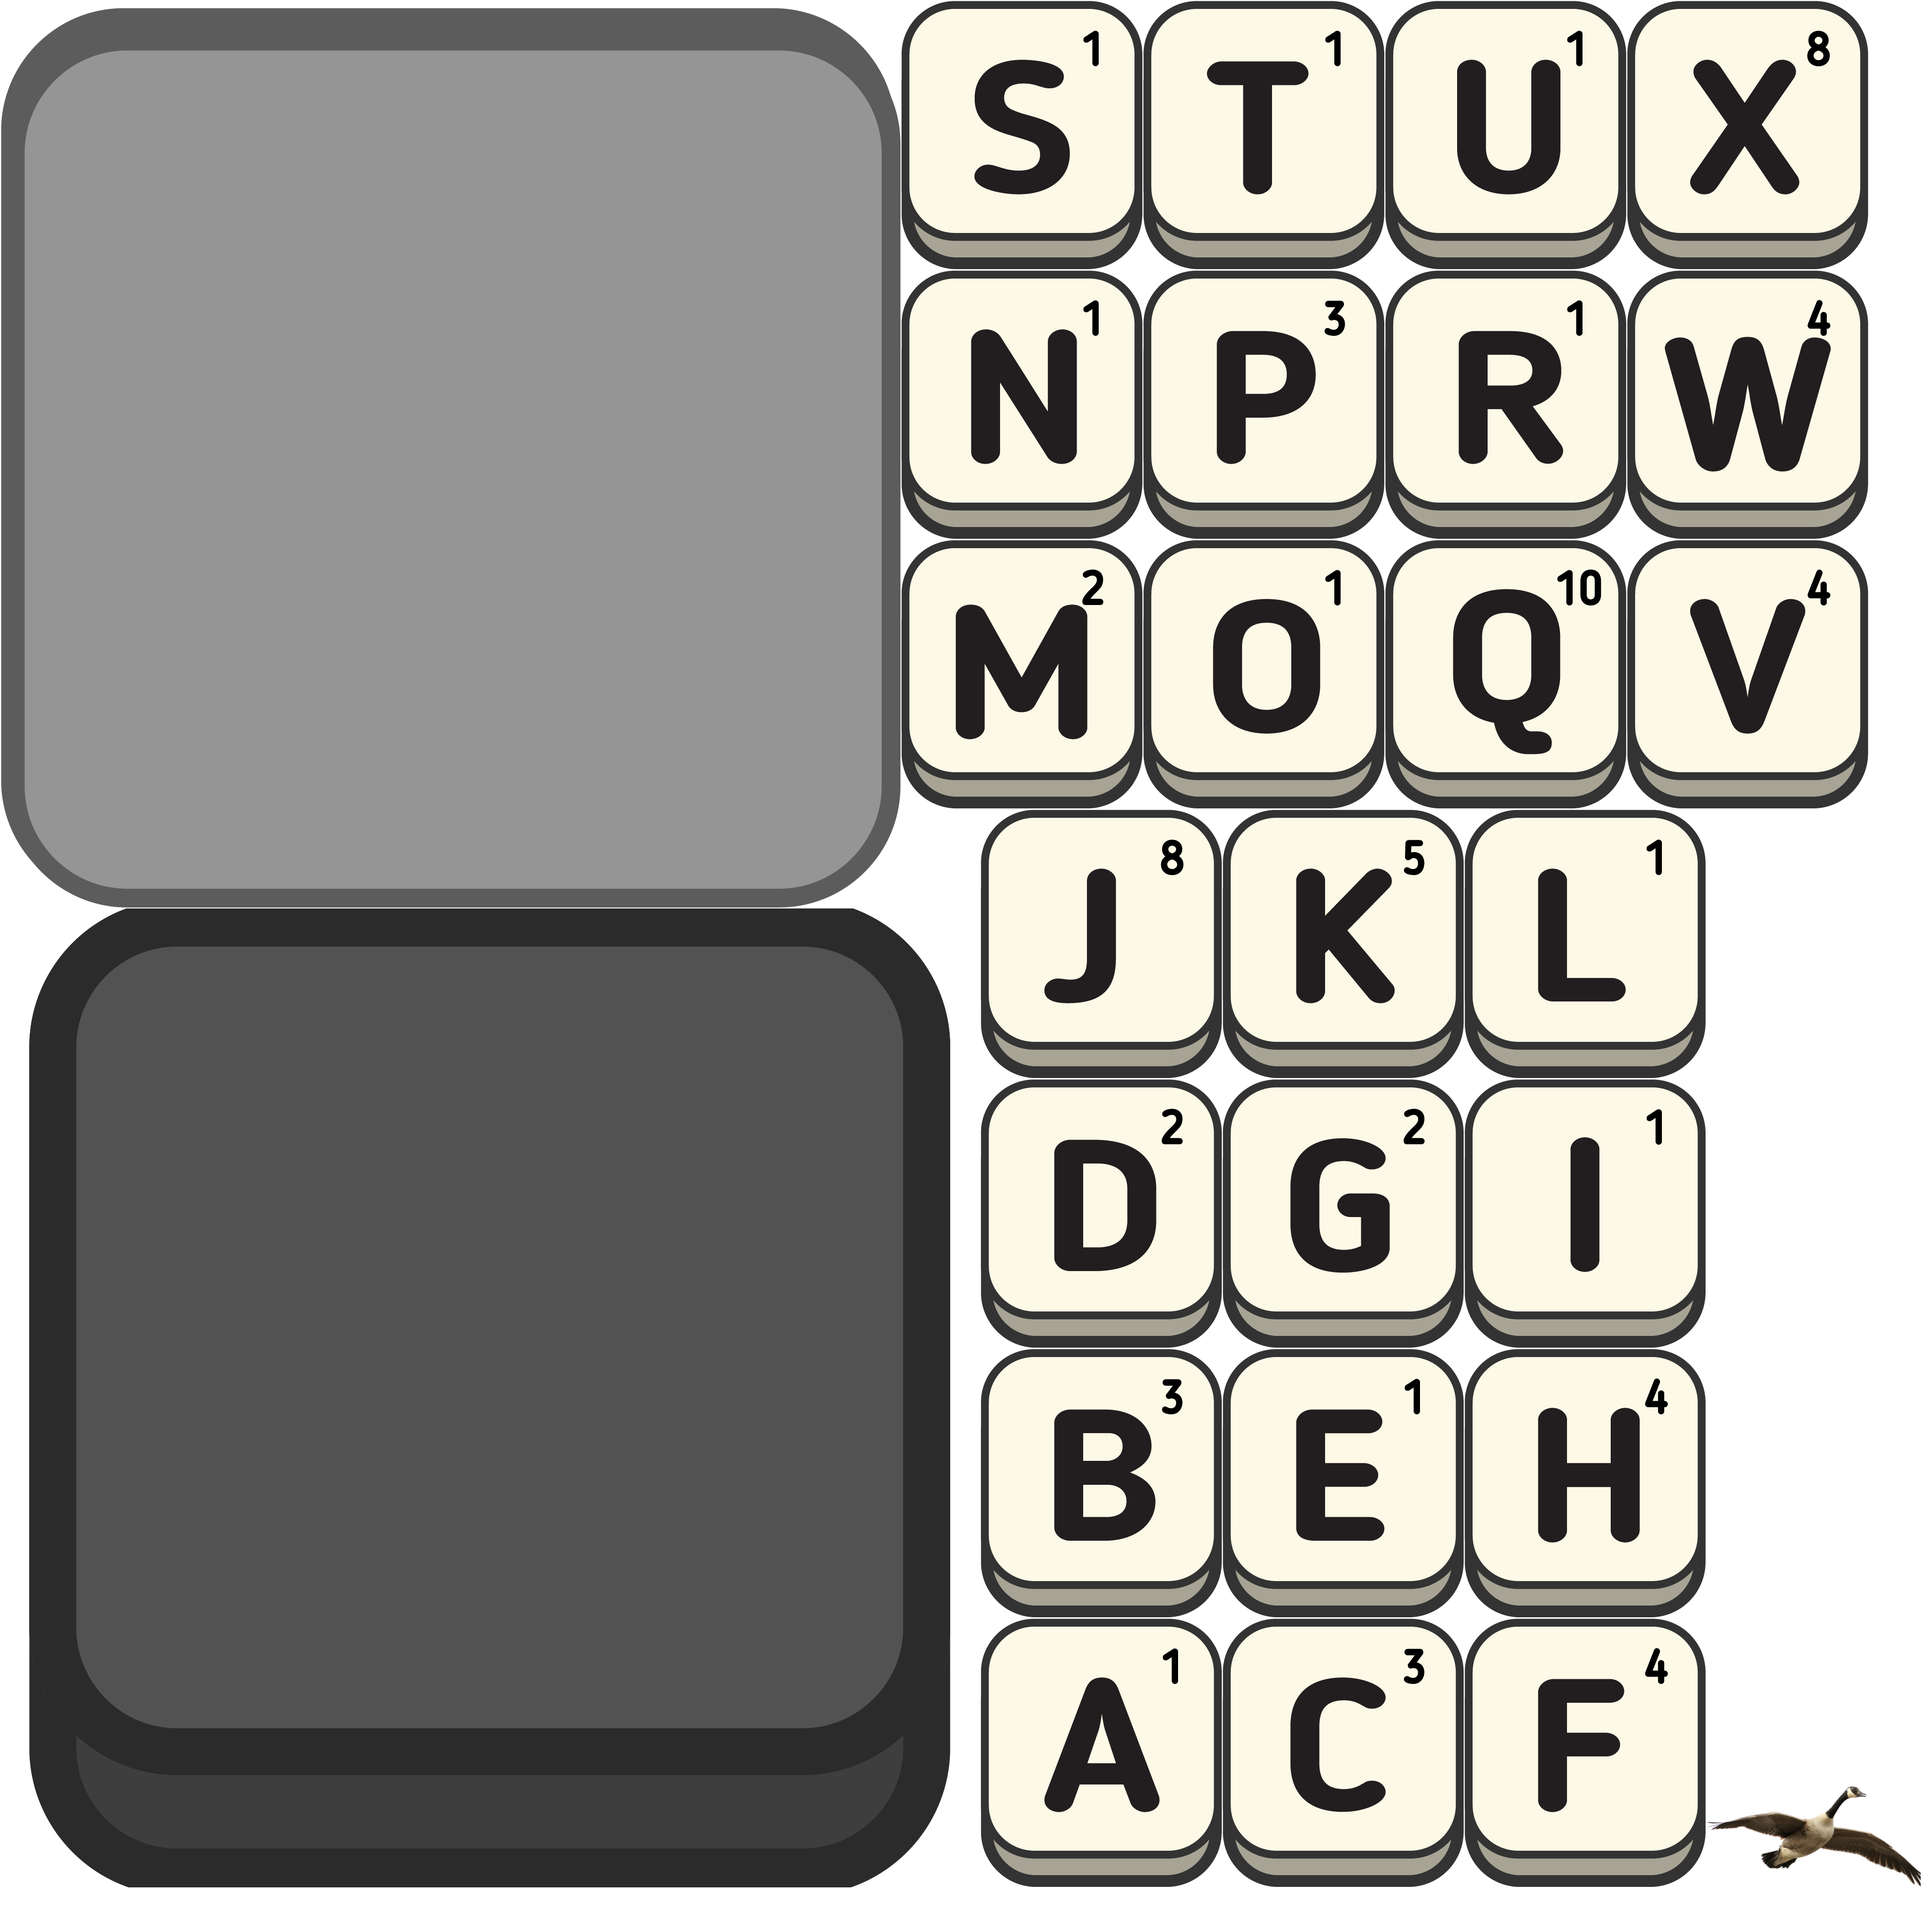
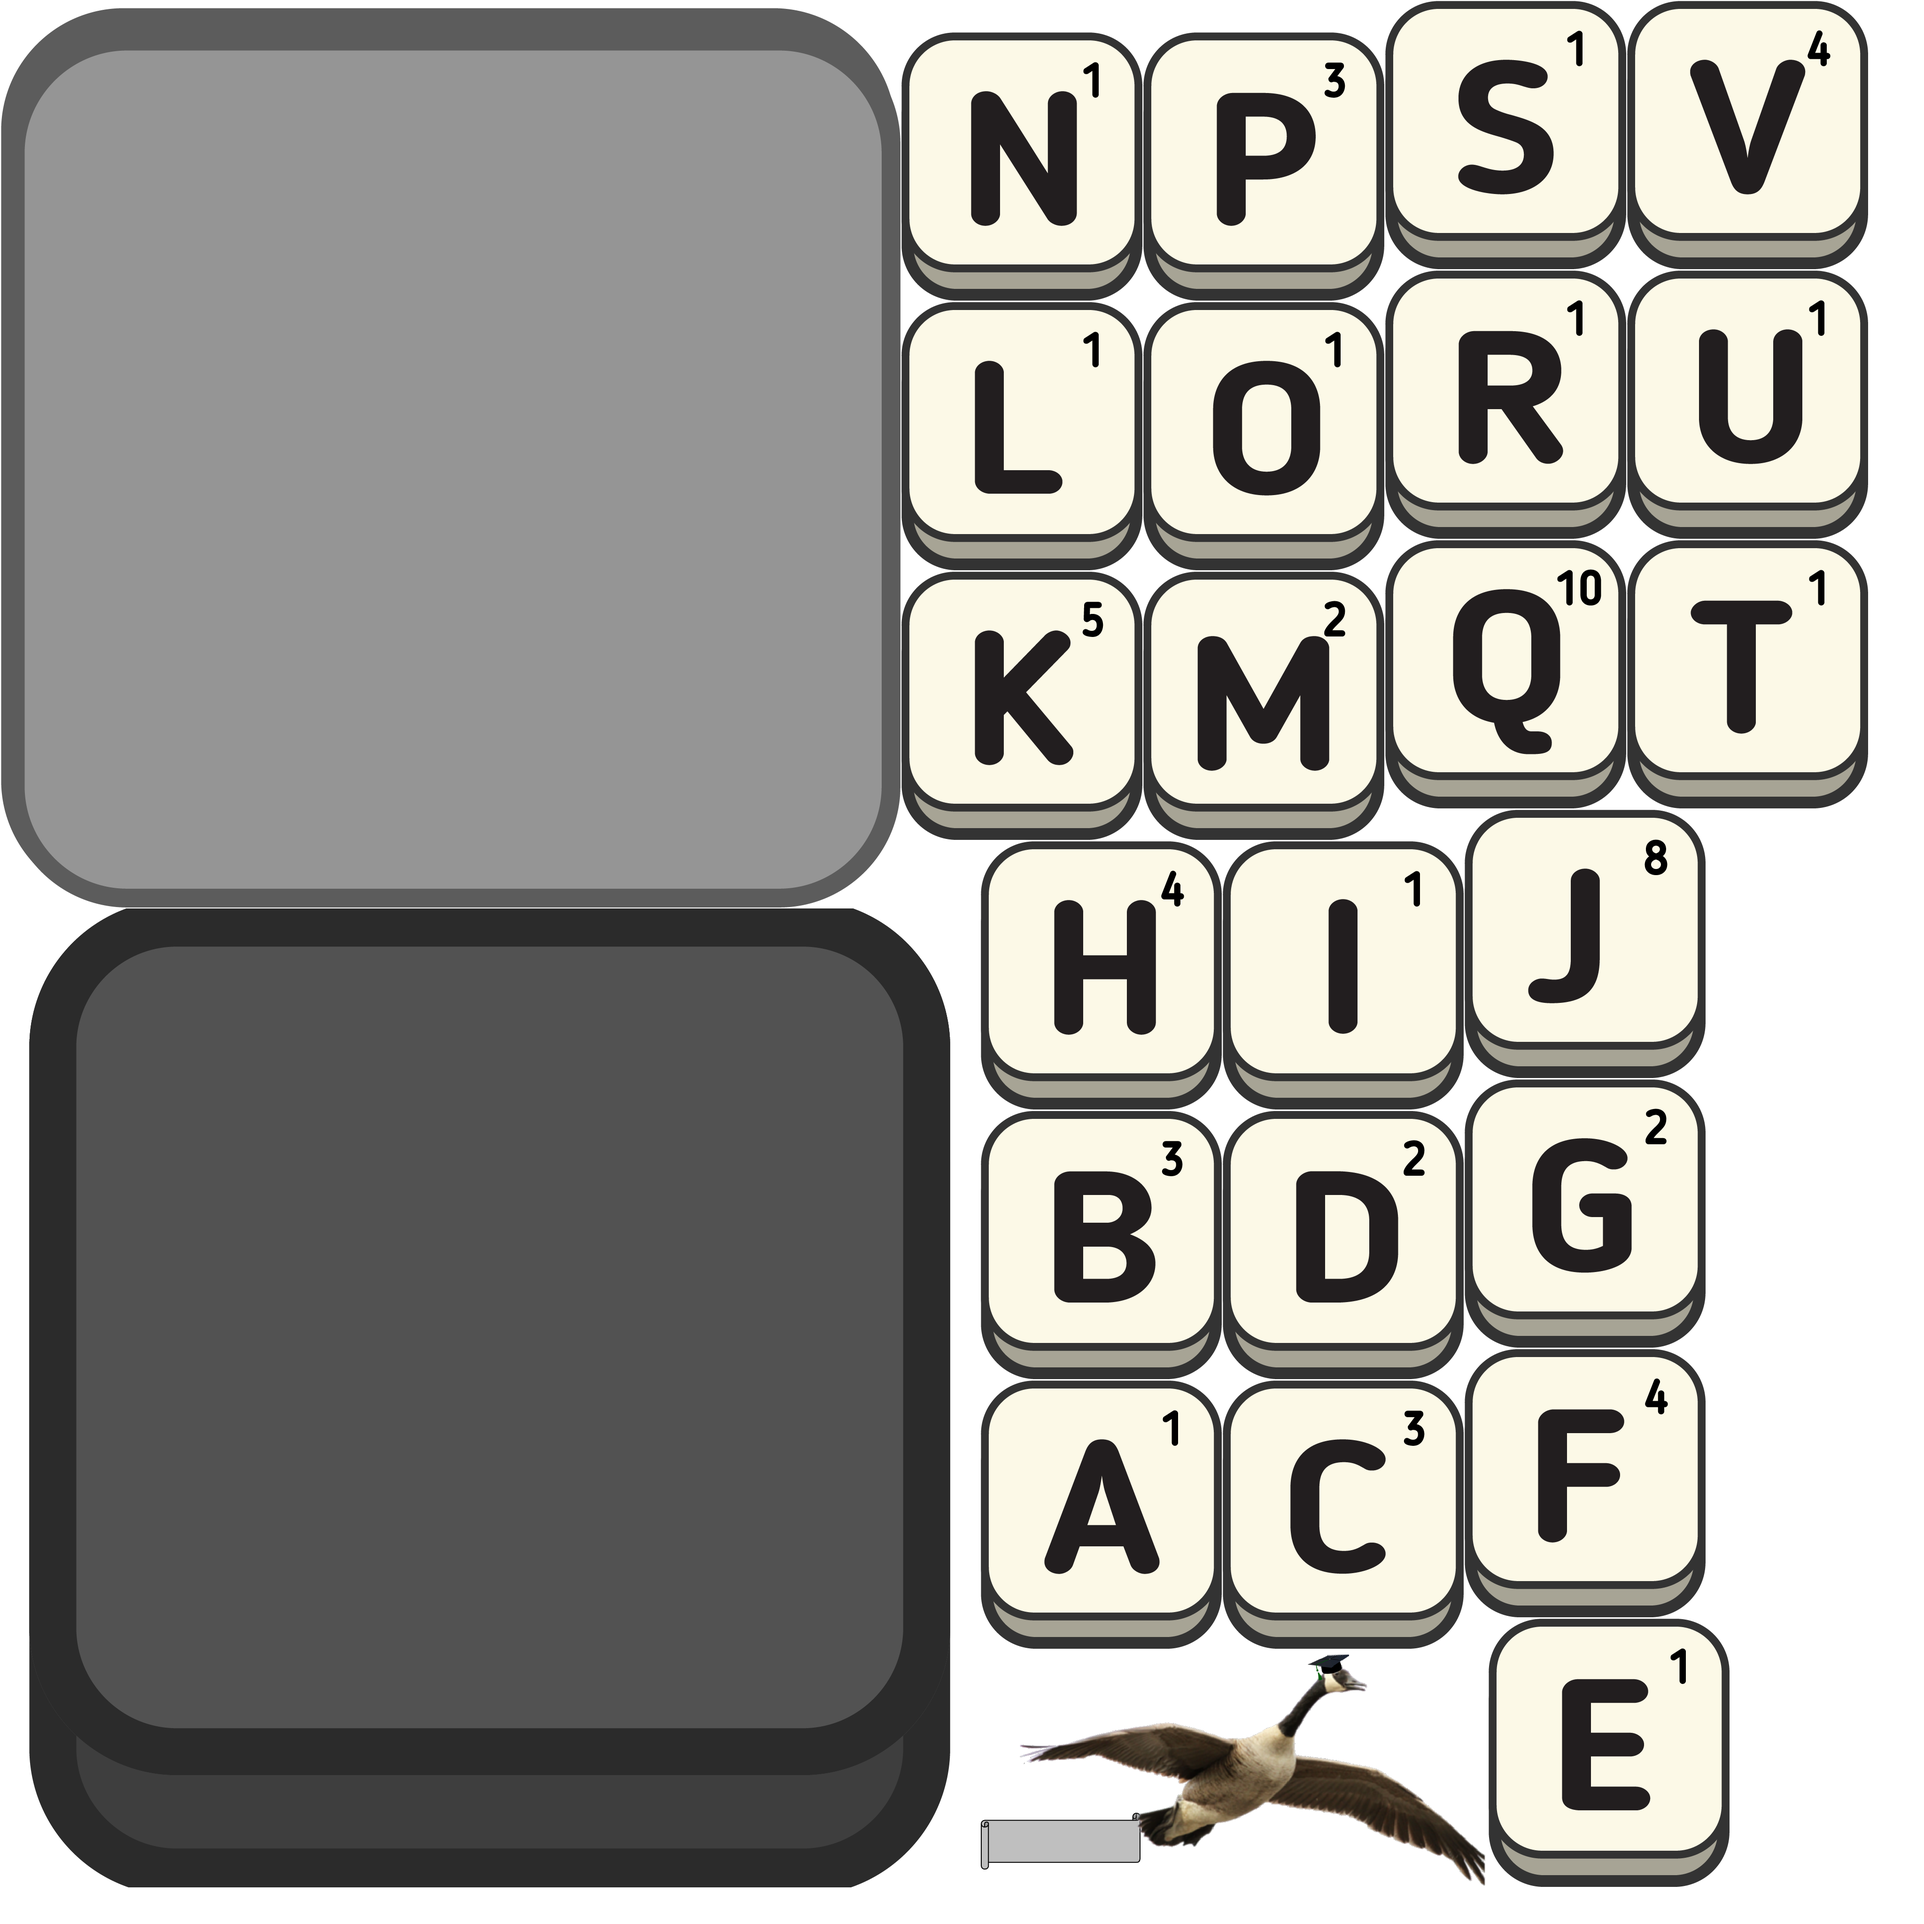
final UI changes

diff --git a/Server Frontend/core/src/com/csc480/game/GUI/Actors/InfoPanelActor.java b/Server Frontend/core/src/com/csc480/game/GUI/Actors/InfoPanelActor.java
@@ -45,8 +45,8 @@ public class InfoPanelActor extends Group{
         title.setColor(Color.RED);
         title.setName("title");
         //title.setPosition(GameScreen.GUI_UNIT_SIZE*4,GameScreen.GUI_UNIT_SIZE*12);
-        myLayout.add(title).expandX().padTop(15f);
-        myLayout.row();
+//        myLayout.add(title).expandX().padTop(15f);
+//        myLayout.row();
         //addActor(title)
 
 
@@ -56,7 +56,7 @@ public class InfoPanelActor extends Group{
 //        green.setScaleY(.01f);
 //        green.setWidth(getWidth());
 //        green.setHeight(GameScreen.GUI_UNIT_SIZE/10);
-        myLayout.add(green).fillX().pad(10f);
+        myLayout.add(green).fillX().padBottom(5f).padTop(19f);
         myLayout.row();
 
 
@@ -65,7 +65,7 @@ public class InfoPanelActor extends Group{
         gold = new ProgressBar(0f,250f,1f,false,TextureManager.getInstance().ui, "GoldProgress");
         gold.getStyle().background.setMinHeight(10f);
         gold.getStyle().knobBefore.setMinHeight(10f);
-        myLayout.add(gold).fillX().padLeft(10f).padRight(10f);
+        myLayout.add(gold).fillX().padBottom(10);
         myLayout.row();
         gold.setValue(50f);//todo remove this////////////////////////////////////////////
 //
@@ -179,12 +179,6 @@ public class InfoPanelActor extends Group{
         if(logOfEvents.size >= 4){
             logOfEvents.removeIndex(0);
         }
-        MoveByAction mba = new MoveByAction();
-        mba.setAmount(2000f,0);
-        mba.setDuration(10f);
-        if(event.toLowerCase().contains("oswego bonus"))GameManager.getInstance().theGame.theGameScreen.oswego.addAction(mba);
-            if(GameManager.getInstance().theGame != null && GameManager.getInstance().theGame.theGameScreen != null)
-                GameManager.getInstance().theGame.theGameScreen.oswego.setPosition(-GameScreen.GUI_UNIT_SIZE*30,GameScreen.GUI_UNIT_SIZE*7);
         Array<String> tempEvents = new Array<String>();
         for(String s : logOfEvents)
             tempEvents.add(s);
@@ -207,5 +201,14 @@ public class InfoPanelActor extends Group{
         eventLog.setSelectedIndex(-1);//.setSelectedIndex(logOfEvents.size-1);
         //eventLog.getItems().add(event);
 
+    }
+    public void ShowBonus(String event){
+        MoveByAction mba = new MoveByAction();
+        mba.setAmount(2000f,0);
+        mba.setDuration(20f);
+//        if(event.toLowerCase().contains("oswego bonus"))
+        GameManager.getInstance().theGame.theGameScreen.oswego.addAction(mba);
+        if(GameManager.getInstance().theGame != null && GameManager.getInstance().theGame.theGameScreen != null)
+            GameManager.getInstance().theGame.theGameScreen.oswego.setPosition(-GameScreen.GUI_UNIT_SIZE*40,GameScreen.GUI_UNIT_SIZE*5);
     }
 }

diff --git a/Server Frontend/core/src/com/csc480/game/Engine/GameManager.java b/Server Frontend/core/src/com/csc480/game/Engine/GameManager.java
@@ -261,8 +261,11 @@ public class GameManager {
                 try {
                     JSONObject data = (JSONObject) args[0];
                     String action = data.getString("action");
+                    boolean isBonus = data.getBoolean("bonus");
                     //System.out.println(action);
-                    LogEvent(action);
+                    if(isBonus)
+                        BonusEvent(action);
+                        LogEvent(action);
                 }catch(ArrayIndexOutOfBoundsException e){
                     e.printStackTrace();
                 }catch(JSONException e){
@@ -596,6 +599,10 @@ public class GameManager {
             eventBacklog.add(eventName);
         }
 
+    }
+
+    public void BonusEvent(String eventName){
+        theGame.theGameScreen.infoPanel.ShowBonus(eventName);
     }
 
     /**

diff --git a/Server Frontend/core/src/com/csc480/game/GUI/GameScreen.java b/Server Frontend/core/src/com/csc480/game/GUI/GameScreen.java
@@ -211,7 +211,8 @@ public class GameScreen implements Screen {
 //        stage.setDebugAll(true);
 //        stage.setDebugInvisible(false);
         oswego = new BonusActor();//new Image(TextureManager.getInstance().getTileTexture("oswego"));
-        oswego.setPosition(-GUI_UNIT_SIZE*30,GUI_UNIT_SIZE*5);
+        oswego.setScale(.75f);
+        oswego.setPosition(-GUI_UNIT_SIZE*45,GUI_UNIT_SIZE*5);
         stage.addActor(oswego);
 
         gameOverActor = new GameOverActor();

diff --git a/Server Frontend/core/src/com/csc480/game/Engine/TestingInputProcessor.java b/Server Frontend/core/src/com/csc480/game/Engine/TestingInputProcessor.java
@@ -84,7 +84,7 @@ public class TestingInputProcessor implements InputProcessor {
         }
         else if(character == '4'){
             //System.out.println("logging");
-            GameManager.getInstance().LogEvent("oswego bonus");
+            GameManager.getInstance().BonusEvent("oswego bonus word has been played");
         }
         else if(character == '\'') {
             System.out.println("entering");

diff --git a/Server Frontend/core/src/com/csc480/game/GUI/Actors/BonusActor.java b/Server Frontend/core/src/com/csc480/game/GUI/Actors/BonusActor.java
@@ -14,7 +14,8 @@ public class BonusActor extends Group{
         charriot = new Image(TextureManager.getInstance().getTileTexture("oswego"));
         charriot.setPosition(0,0);
         message = new Label("Bonus Word", TextureManager.getInstance().ui, "default");
-
+        message.setFontScale(1f);
+        message.setPosition(50f, 90f);
         addActor(charriot);
         addActor(message);
     }
